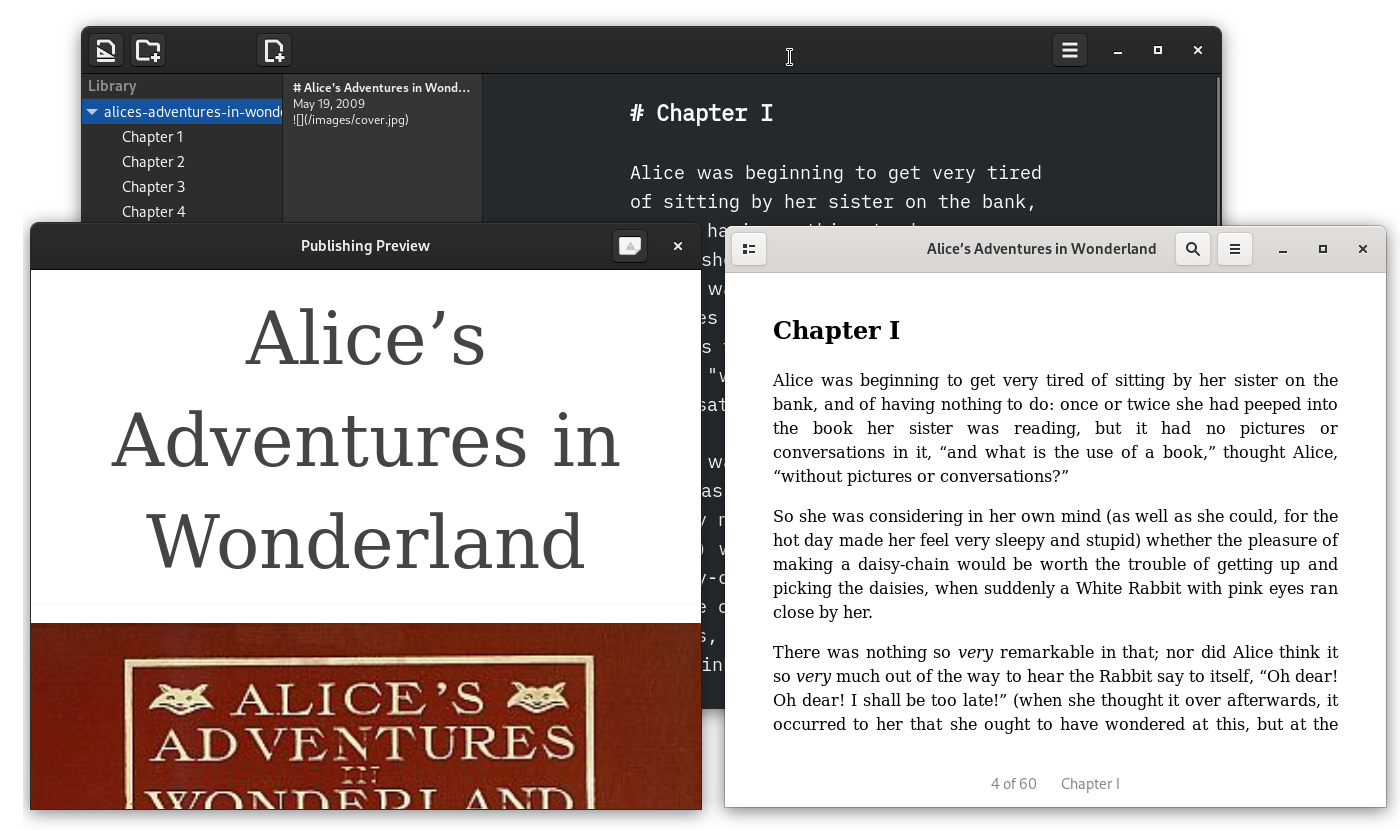
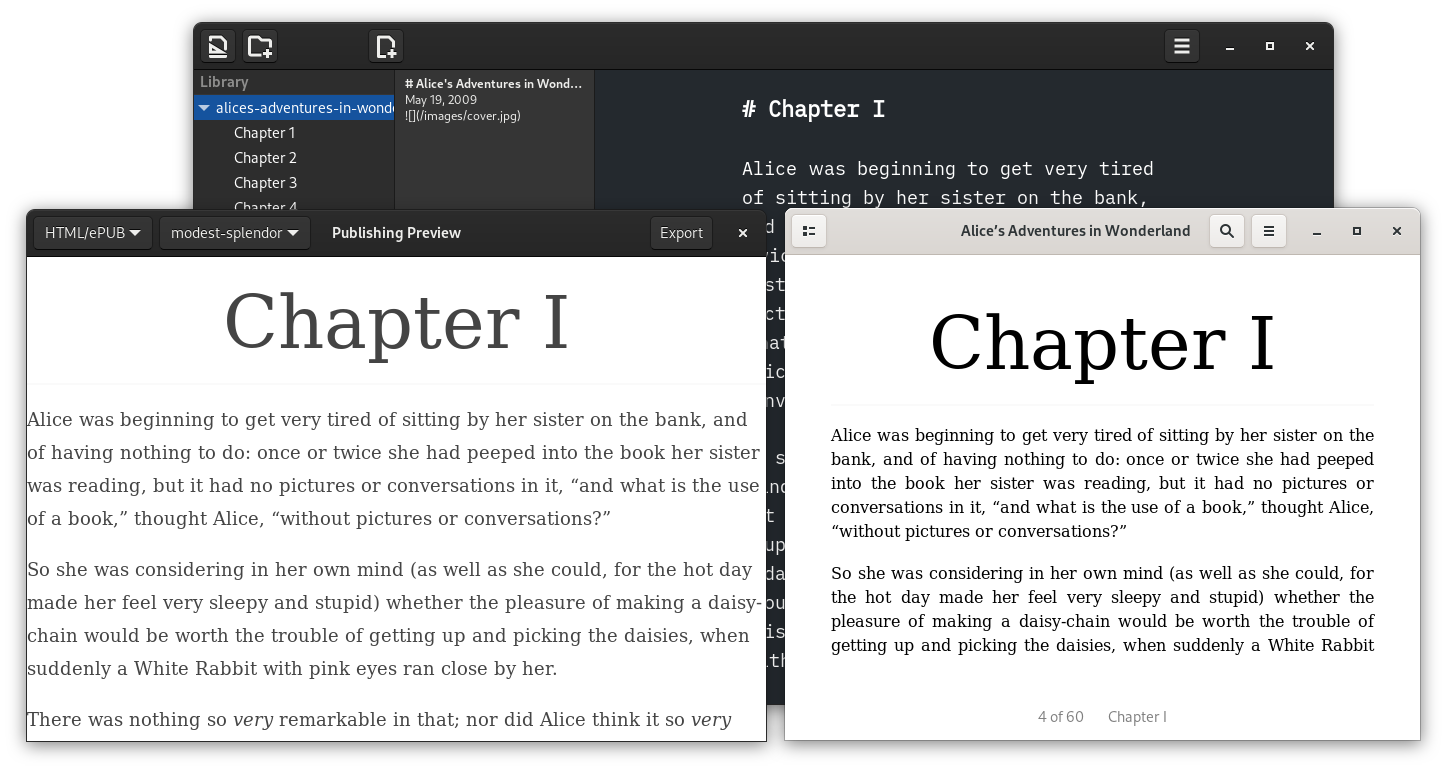
Updating site and documentation

diff --git a/docs/tips/novel-writing.md b/docs/tips/novel-writing.md
@@ -108,6 +108,8 @@ ThiefMD will generate the output based on the filename. `my-great-work.pdf` will
 
 Things not looking quite as planned? In the Export Preferences `Ctrl + ,` you can tweak the results based on how you organized your library.
 
+Want more advanced control of how your book looks? [Export Styles](/tips/export-styles) requires a little CSS know-how to get your book looking great.
+
 <div style="clear: both"></div>
 
 ## Getting in the Zone

diff --git a/docs/deets/index.md b/docs/deets/index.md
@@ -24,6 +24,8 @@ Relative paths? Absolute paths? Don't worry, ThiefMD will find the image you're 
 
 A separate window lets allows for better positioning, or multi-monitor support. Focus on your writing, or focus on your reading.
 
+Customize the results with [Export Styles](/tips/export-styles). Just a little CSS, and you can see how the results will look on your blog, PDF, or ePUB.
+
 <div class="clear"></div>
 
 ## Compilation & Multi-Format Export
